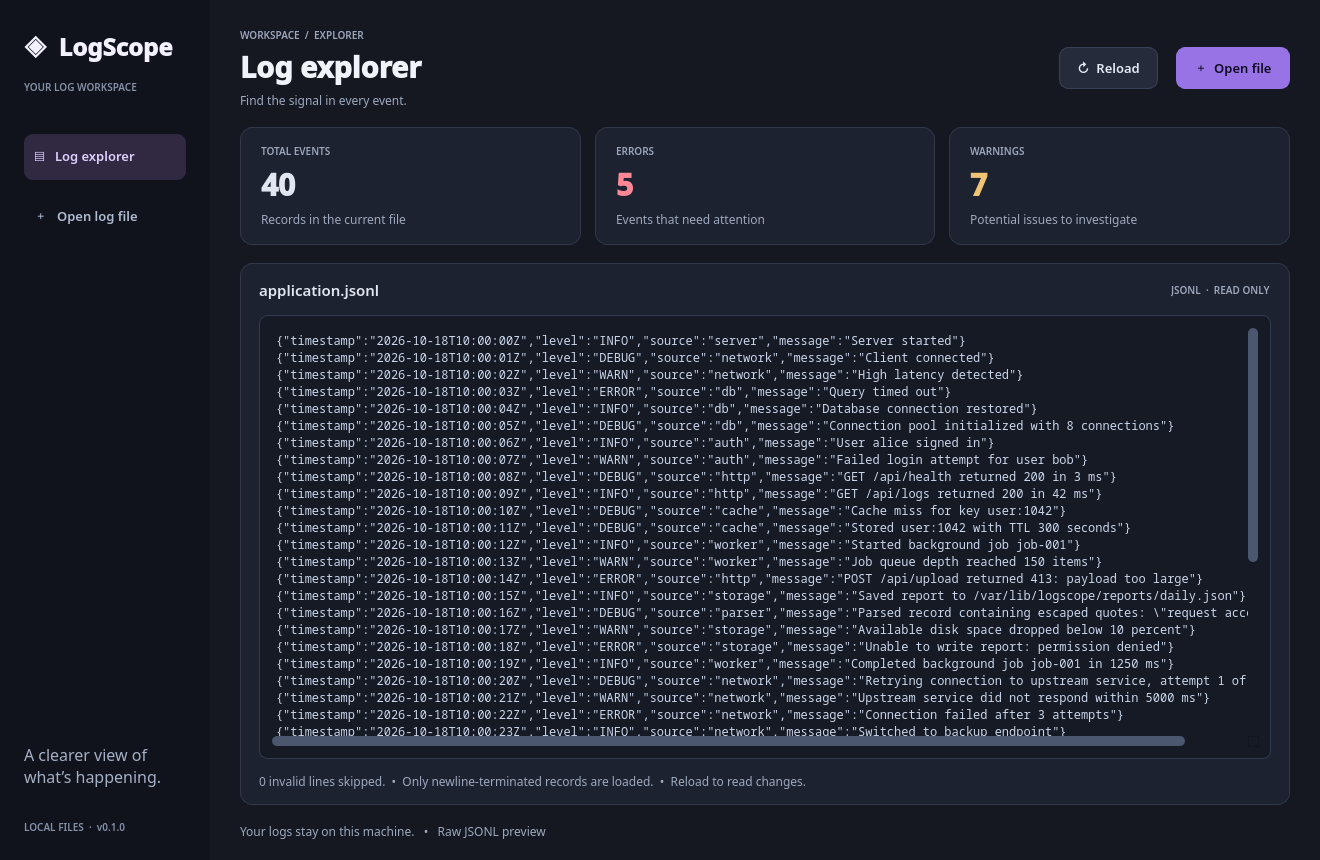
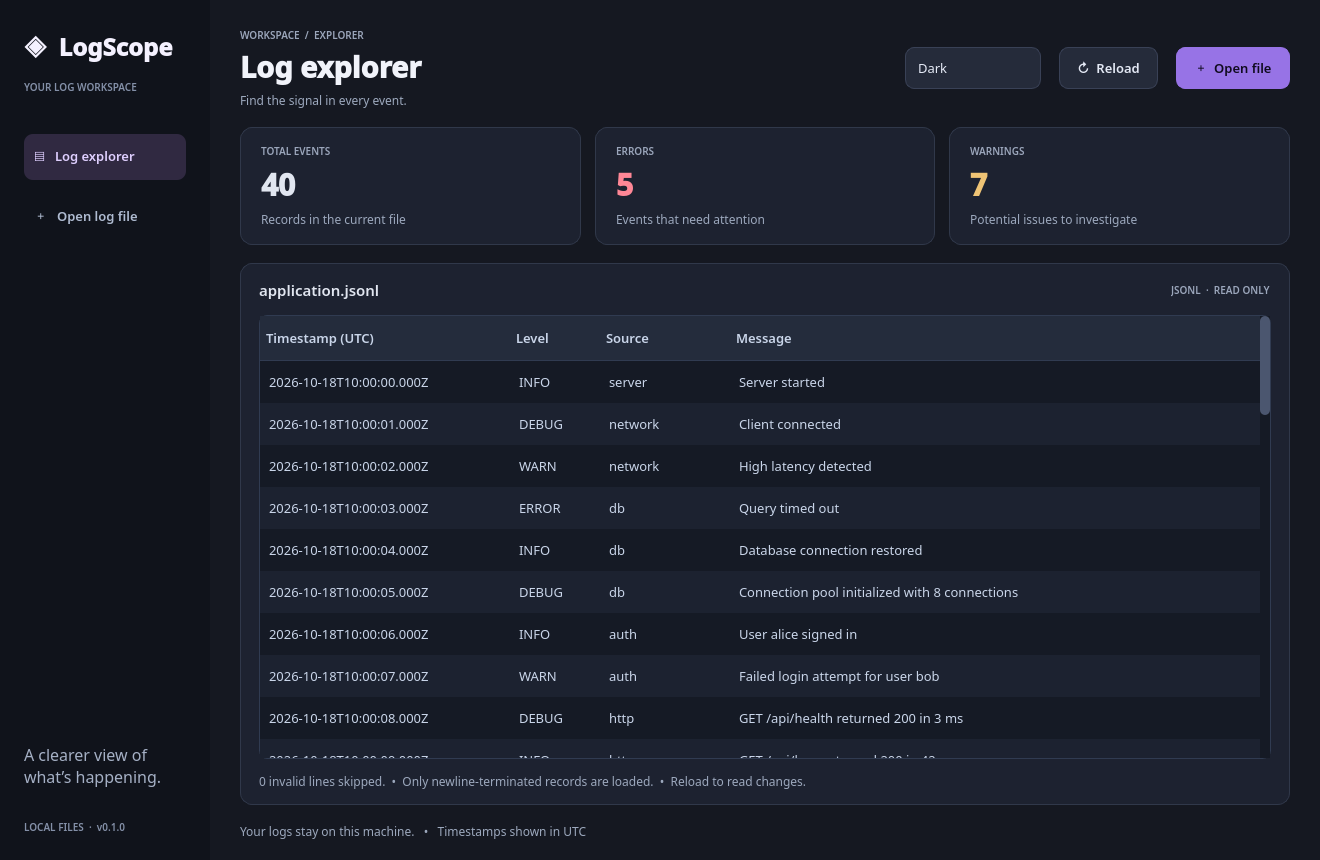
feat: display logs in a table with severity colors
Implement a read-only LogModel with UTC timestamps, headers, and full-message tooltips. Connect file loading to the table, adapt severity colors to dark and light themes, and add model tests.

diff --git a/tests/test_LogModel.cpp b/tests/test_LogModel.cpp
@@ -1,0 +1,121 @@
+#include "LogModel.h"
+#include <QPersistentModelIndex>
+#include <gtest/gtest.h>
+
+namespace {
+LogRecord event(const QString& message = QStringLiteral("Server started")) {
+    return {QDateTime::fromString(QStringLiteral("2026-10-18T12:00:00+02:00"), Qt::ISODate),
+            QStringLiteral("INFO"), QStringLiteral("server"), message};
+}
+}
+
+TEST(LogModelTest, EmptyTableHasFourColumnsAndNoChildren) {
+    LogModel model;
+    EXPECT_EQ(model.rowCount(), 0);
+    EXPECT_EQ(model.columnCount(), 4);
+    model.setRecords({event()});
+    EXPECT_EQ(model.rowCount(), 1);
+    EXPECT_EQ(model.rowCount(model.index(0, 0)), 0);
+    EXPECT_EQ(model.columnCount(model.index(0, 0)), 0);
+}
+
+TEST(LogModelTest, DisplaysAllFieldsAndConvertsTimestampToUtc) {
+    LogModel model;
+    model.setRecords({event()});
+    EXPECT_EQ(model.data(model.index(0, LogModel::Timestamp)).toString(), "2026-10-18T10:00:00.000Z");
+    EXPECT_EQ(model.data(model.index(0, LogModel::Level)).toString(), "INFO");
+    EXPECT_EQ(model.data(model.index(0, LogModel::Source)).toString(), "server");
+    EXPECT_EQ(model.data(model.index(0, LogModel::Message)).toString(), "Server started");
+}
+
+TEST(LogModelTest, ProvidesHeadersAndRejectsUnsupportedRequests) {
+    LogModel model;
+    model.setRecords({event()});
+    const QStringList headers{"Timestamp (UTC)", "Level", "Source", "Message"};
+    for (int column = 0; column < LogModel::ColumnCount; ++column)
+        EXPECT_EQ(model.headerData(column, Qt::Horizontal).toString(), headers[column]);
+    EXPECT_EQ(model.headerData(0, Qt::Vertical).toInt(), 1);
+    EXPECT_FALSE(model.headerData(-1, Qt::Horizontal).isValid());
+    EXPECT_FALSE(model.headerData(4, Qt::Horizontal).isValid());
+    EXPECT_FALSE(model.headerData(1, Qt::Vertical).isValid());
+    EXPECT_FALSE(model.headerData(0, Qt::Horizontal, Qt::DecorationRole).isValid());
+    EXPECT_FALSE(model.data({}).isValid());
+    EXPECT_FALSE(model.data(model.index(1, 0)).isValid());
+    EXPECT_FALSE(model.data(model.index(0, 4)).isValid());
+    EXPECT_FALSE(model.data(model.index(0, 0), Qt::DecorationRole).isValid());
+    LogModel other;
+    other.setRecords({event()});
+    EXPECT_FALSE(model.data(other.index(0, 0)).isValid());
+}
+
+TEST(LogModelTest, ReplacementNotifiesViewAndInvalidatesOldIndexes) {
+    LogModel model;
+    model.setRecords({event(), event("second")});
+    QPersistentModelIndex oldIndex(model.index(1, 0));
+    int resets = 0;
+    QObject::connect(&model, &QAbstractItemModel::modelReset, &model, [&] { ++resets; });
+    model.setRecords({event("replacement")});
+    EXPECT_EQ(resets, 1);
+    EXPECT_FALSE(oldIndex.isValid());
+    ASSERT_EQ(model.rowCount(), 1);
+    EXPECT_EQ(model.data(model.index(0, LogModel::Message)).toString(), "replacement");
+    model.setRecords({});
+    EXPECT_EQ(resets, 2);
+    EXPECT_EQ(model.rowCount(), 0);
+}
+
+TEST(LogModelTest, PreservesMessagesAndProvidesFullTooltips) {
+    LogModel model;
+    const auto message = QString::fromUtf8("服务 started\nsecond line, with \"quotes\"");
+    model.setRecords({event(message)});
+    const auto index = model.index(0, LogModel::Message);
+    EXPECT_EQ(model.data(index).toString(), message);
+    EXPECT_EQ(model.data(index, Qt::ToolTipRole).toString(), message);
+    EXPECT_FALSE(model.flags(index).testFlag(Qt::ItemIsEditable));
+    EXPECT_FALSE(model.setData(index, QStringLiteral("changed")));
+    EXPECT_EQ(model.data(index).toString(), message);
+}
+
+TEST(LogModelTest, LabelsInvalidTimestampsAndKeepsFileOrder) {
+    LogModel model;
+    auto invalid = event("first");
+    invalid.timestamp = {};
+    model.setRecords({invalid, event("second")});
+    EXPECT_EQ(model.data(model.index(0, LogModel::Timestamp)).toString(), "Invalid timestamp");
+    EXPECT_EQ(model.data(model.index(0, LogModel::Message)).toString(), "first");
+    EXPECT_EQ(model.data(model.index(1, LogModel::Message)).toString(), "second");
+}
+
+TEST(LogModelTest, ColorsSeverityAndRefreshesWhenThemeChanges) {
+    LogModel model;
+    QVector<LogRecord> records;
+    for (const auto* level : {"INFO", "DEBUG", "warn", "WARNING", "ERROR", "FATAL", "TRACE", "CUSTOM"}) {
+        auto record = event();
+        record.level = QString::fromLatin1(level);
+        records.push_back(record);
+    }
+    model.setRecords(records);
+    const auto foreground = [&model](int row) {
+        return model.data(model.index(row, LogModel::Level), Qt::ForegroundRole);
+    };
+    EXPECT_NE(foreground(0), foreground(1));
+    EXPECT_NE(foreground(2), foreground(4));
+    EXPECT_EQ(foreground(2), foreground(3));
+    EXPECT_EQ(foreground(4), foreground(5));
+    EXPECT_TRUE(foreground(6).isValid());
+    EXPECT_FALSE(foreground(7).isValid());
+    EXPECT_FALSE(model.data(model.index(0, LogModel::Message), Qt::ForegroundRole).isValid());
+    const auto darkColor = foreground(0);
+    int updates = 0;
+    QObject::connect(&model, &QAbstractItemModel::dataChanged, &model,
+        [&](const QModelIndex& first, const QModelIndex& last, const QList<int>& roles) {
+            ++updates;
+            EXPECT_EQ(first.column(), LogModel::Level);
+            EXPECT_EQ(last.row(), model.rowCount() - 1);
+            EXPECT_TRUE(roles.contains(Qt::ForegroundRole));
+        });
+    model.setDarkTheme(false);
+    EXPECT_EQ(updates, 1);
+    EXPECT_NE(foreground(0), darkColor);
+    EXPECT_EQ(model.data(model.index(2, LogModel::Level)).toString(), "warn");
+}

diff --git a/src/MainWindow.cpp b/src/MainWindow.cpp
@@ -1,6 +1,7 @@
 #include "MainWindow.h"
 #include "LogFileReader.h"
 #include "LogParser.h"
+#include "LogModel.h"
 
 #include <QComboBox>
 #include <QFile>
@@ -14,7 +15,8 @@
 #include <QLabel>
 #include <QMessageBox>
 #include <QPushButton>
-#include <QPlainTextEdit>
+#include <QTableView>
+#include <QHeaderView>
 #include <QVBoxLayout>
 
 namespace {
@@ -58,7 +60,7 @@ MainWindow::MainWindow(QWidget* parent) : QMainWindow(parent) {
     auto* explorer = new QPushButton("▤   Log explorer");
     explorer->setObjectName("navActive");
     navigation->addWidget(explorer);
-    connect(explorer, &QPushButton::clicked, this, [this] { preview_->setFocus(); });
+    connect(explorer, &QPushButton::clicked, this, [this] { table_->setFocus(); });
     auto* openSide = new QPushButton("＋   Open log file");
     openSide->setObjectName("navButton");
     connect(openSide, &QPushButton::clicked, this, &MainWindow::chooseFile);
@@ -126,17 +128,32 @@ MainWindow::MainWindow(QWidget* parent) : QMainWindow(parent) {
     fileRow->addWidget(fileLabel_, 1);
     fileRow->addWidget(label("JSONL  ·  READ ONLY", "eyebrow"));
     panelLayout->addLayout(fileRow);
-    preview_ = new QPlainTextEdit;
-    preview_->setReadOnly(true);
-    preview_->setLineWrapMode(QPlainTextEdit::NoWrap);
-    preview_->setPlaceholderText("Open a JSONL file to preview its contents.");
-    preview_->setAccessibleName("Raw log file preview");
-    panelLayout->addWidget(preview_, 1);
+    model_ = new LogModel(this);
+    model_->setDarkTheme(themeSelector->currentData().toString() == "dark");
+    table_ = new QTableView;
+    table_->setModel(model_);
+    table_->setAccessibleName("Log events");
+    table_->setSelectionBehavior(QAbstractItemView::SelectRows);
+    table_->setSelectionMode(QAbstractItemView::SingleSelection);
+    table_->setEditTriggers(QAbstractItemView::NoEditTriggers);
+    table_->setAlternatingRowColors(true);
+    table_->setShowGrid(false);
+    table_->setWordWrap(false);
+    table_->setTextElideMode(Qt::ElideRight);
+    table_->verticalHeader()->hide();
+    table_->verticalHeader()->setDefaultSectionSize(42);
+    table_->horizontalHeader()->setDefaultAlignment(Qt::AlignLeft | Qt::AlignVCenter);
+    table_->horizontalHeader()->setHighlightSections(false);
+    table_->horizontalHeader()->setStretchLastSection(true);
+    table_->setColumnWidth(LogModel::Timestamp, 250);
+    table_->setColumnWidth(LogModel::Level, 90);
+    table_->setColumnWidth(LogModel::Source, 130);
+    panelLayout->addWidget(table_, 1);
     notice_ = label("Open a JSONL file to begin.  •  Ctrl+O", "muted");
     notice_->setWordWrap(true);
     panelLayout->addWidget(notice_);
     page->addWidget(panel, 1);
-    page->addWidget(label("Your logs stay on this machine.   •   Raw JSONL preview", "muted"));
+    page->addWidget(label("Your logs stay on this machine.   •   Timestamps shown in UTC", "muted"));
     shell->addWidget(content, 1);
 
     auto* openAction = new QAction(this);
@@ -163,7 +180,7 @@ bool MainWindow::openFile(const QString& path) {
         QMessageBox::warning(this, "Unable to read file", reader.errorString());
         return false;
     }
-    int total = 0;
+    QVector<LogRecord> records;
     int invalid = 0, errors = 0, warnings = 0;
     const LogParser parser;
     for (const auto& line : lines) {
@@ -171,16 +188,16 @@ bool MainWindow::openFile(const QString& path) {
             const auto level = record->level.toUpper();
             errors += level == "ERROR" || level == "FATAL";
             warnings += level == "WARN" || level == "WARNING";
-            ++total;
+            records.push_back(std::move(*record));
         } else {
             ++invalid;
         }
     }
     path_ = path;
-    preview_->setPlainText(lines.join(QLatin1Char('\n')));
+    model_->setRecords(std::move(records));
     fileLabel_->setText(QFileInfo(path).fileName());
     fileLabel_->setToolTip(QFileInfo(path).absoluteFilePath());
-    totalLabel_->setText(QString::number(total));
+    totalLabel_->setText(QString::number(model_->rowCount()));
     errorLabel_->setText(QString::number(errors));
     warningLabel_->setText(QString::number(warnings));
     notice_->setText(QString("%1 invalid lines skipped.  •  Only newline-terminated records are loaded.  •  Reload to read changes.").arg(invalid));
@@ -198,6 +215,7 @@ bool MainWindow::applyTheme(const QString& name) {
     // Scope the theme to the workspace. File/message dialogs are parented to
     // MainWindow and should retain a consistent system palette.
     centralWidget()->setStyleSheet(QString::fromUtf8(stylesheet.readAll()));
+    if (model_) model_->setDarkTheme(name == "dark");
     QSettings().setValue("appearance/theme", name);
     return true;
 }

diff --git a/src/LogModel.cpp b/src/LogModel.cpp
@@ -1,0 +1,75 @@
+#include "LogModel.h"
+#include <QColor>
+#include <utility>
+
+LogModel::LogModel(QObject* parent) : QAbstractTableModel(parent) {}
+
+int LogModel::rowCount(const QModelIndex& parent) const {
+    return parent.isValid() ? 0 : static_cast<int>(records_.size());
+}
+
+int LogModel::columnCount(const QModelIndex& parent) const {
+    return parent.isValid() ? 0 : ColumnCount;
+}
+
+QVariant LogModel::data(const QModelIndex& index, int role) const {
+    if (!index.isValid() || index.model() != this || index.row() < 0 ||
+        index.row() >= records_.size() || index.column() < 0 ||
+        index.column() >= ColumnCount) {
+        return {};
+    }
+    const auto& record = records_.at(index.row());
+    if (role == Qt::ForegroundRole && index.column() == Level) {
+        const auto level = record.level.toUpper();
+        if (level == "ERROR" || level == "FATAL" || level == "CRITICAL")
+            return QColor(darkTheme_ ? "#ff8796" : "#b4233d");
+        if (level == "WARN" || level == "WARNING")
+            return QColor(darkTheme_ ? "#efc475" : "#875500");
+        if (level == "INFO")
+            return QColor(darkTheme_ ? "#75d9b4" : "#087453");
+        if (level == "DEBUG")
+            return QColor(darkTheme_ ? "#bba1f5" : "#7040b0");
+        if (level == "TRACE")
+            return QColor(darkTheme_ ? "#8bbded" : "#28639a");
+        return {}; // Unknown levels use the normal theme text color.
+    }
+    if (role != Qt::DisplayRole && role != Qt::ToolTipRole) return {};
+
+    switch (index.column()) {
+    case Timestamp:
+        return record.timestamp.isValid()
+            ? record.timestamp.toUTC().toString(Qt::ISODateWithMs)
+            : QStringLiteral("Invalid timestamp");
+    case Level: return record.level;
+    case Source: return record.source;
+    case Message: return record.message;
+    default: return {};
+    }
+}
+
+QVariant LogModel::headerData(int section, Qt::Orientation orientation, int role) const {
+    if (role != Qt::DisplayRole || section < 0) return {};
+    if (orientation == Qt::Vertical)
+        return section < rowCount() ? QVariant(section + 1) : QVariant();
+
+    switch (section) {
+    case Timestamp: return QStringLiteral("Timestamp (UTC)");
+    case Level: return QStringLiteral("Level");
+    case Source: return QStringLiteral("Source");
+    case Message: return QStringLiteral("Message");
+    default: return {};
+    }
+}
+
+void LogModel::setRecords(QVector<LogRecord> records) {
+    beginResetModel();
+    records_ = std::move(records);
+    endResetModel();
+}
+
+void LogModel::setDarkTheme(bool dark) {
+    if (darkTheme_ == dark) return;
+    darkTheme_ = dark;
+    if (!records_.isEmpty())
+        emit dataChanged(index(0, Level), index(rowCount() - 1, Level), {Qt::ForegroundRole});
+}

diff --git a/include/LogModel.h b/include/LogModel.h
@@ -1,0 +1,24 @@
+#pragma once
+
+#include "LogRecord.h"
+#include <QAbstractTableModel>
+#include <QVector>
+
+// Owns parsed records and exposes a read-only table in file order.
+class LogModel : public QAbstractTableModel {
+public:
+    enum Column { Timestamp, Level, Source, Message, ColumnCount };
+
+    explicit LogModel(QObject* parent = nullptr);
+    int rowCount(const QModelIndex& parent = {}) const override;
+    int columnCount(const QModelIndex& parent = {}) const override;
+    QVariant data(const QModelIndex& index, int role = Qt::DisplayRole) const override;
+    QVariant headerData(int section, Qt::Orientation orientation,
+                        int role = Qt::DisplayRole) const override;
+    void setRecords(QVector<LogRecord> records);
+    void setDarkTheme(bool dark);
+
+private:
+    QVector<LogRecord> records_;
+    bool darkTheme_ = true;
+};

diff --git a/include/MainWindow.h b/include/MainWindow.h
@@ -2,7 +2,8 @@
 #include <QMainWindow>
 
 class QLabel;
-class QPlainTextEdit;
+class QTableView;
+class LogModel;
 
 class MainWindow : public QMainWindow {
 public:
@@ -11,7 +12,8 @@ public:
 private:
     void chooseFile();
     bool applyTheme(const QString& name);
-    QPlainTextEdit* preview_;
+    LogModel* model_ = nullptr;
+    QTableView* table_;
     QLabel* fileLabel_;
     QLabel* totalLabel_;
     QLabel* errorLabel_;

diff --git a/README.md b/README.md
@@ -28,7 +28,7 @@ Click **Open file** (Ctrl+O) to load `samples/application.jsonl`, or pass a file
 ./build/Debug/logscope samples/application.jsonl
 ```
 
-The current UI previews raw JSONL and shows event, error, and warning counts. Click **Reload** to read file changes. Invalid lines are counted; incomplete final lines wait for a newline. Model/View tables, search, and severity filtering will be implemented in later steps.
+The current UI displays parsed events in a read-only table with timestamp (UTC), level, source, and message columns, alongside event, error, and warning counts. Hover over a cell to see its full contents. Rows stay in file order. Click **Reload** to replace the displayed records with the current file contents. Invalid lines are skipped and counted; incomplete final lines wait for a newline. Search and severity filtering will be implemented in a later step.
 
 Use the **Dark / Light** selector in the toolbar to switch appearance instantly. Your selection is remembered between launches. Themes live in `resources/themes/dark.qss` and `resources/themes/light.qss`. Edit either file and rebuild to customize it. CMake embeds both into the executable, so they work from any launch directory.
 
@@ -46,8 +46,8 @@ If Conan-generated files are missing, re-run `conan install ...` before CMake Co
 
 ## Roadmap
 - [x] Project bootstrap, Conan dependencies and build
-- [x] Basic JSONL parsing and raw file preview
-- [ ] Model/View table display
+- [x] Basic JSONL parsing
+- [x] Model/View table display
 - [ ] Search and severity filtering
 - [ ] Follow appended file data without re-reading entire file
 - [ ] Robust malformed-line reporting and tests
